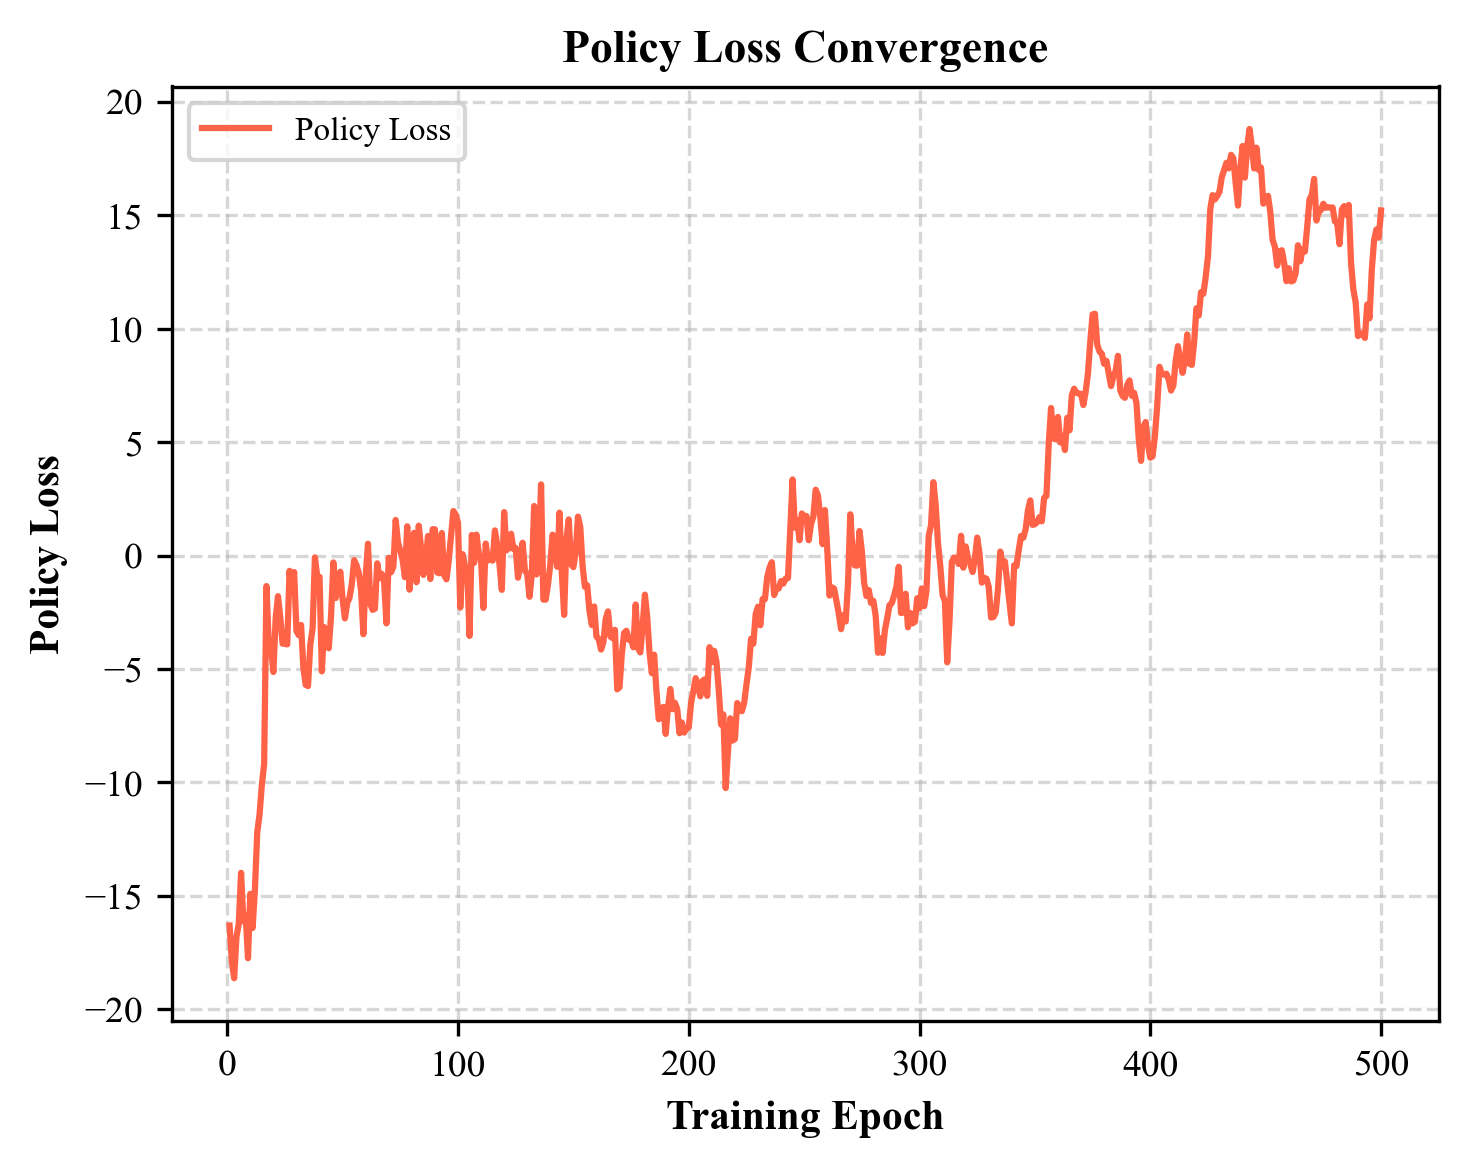
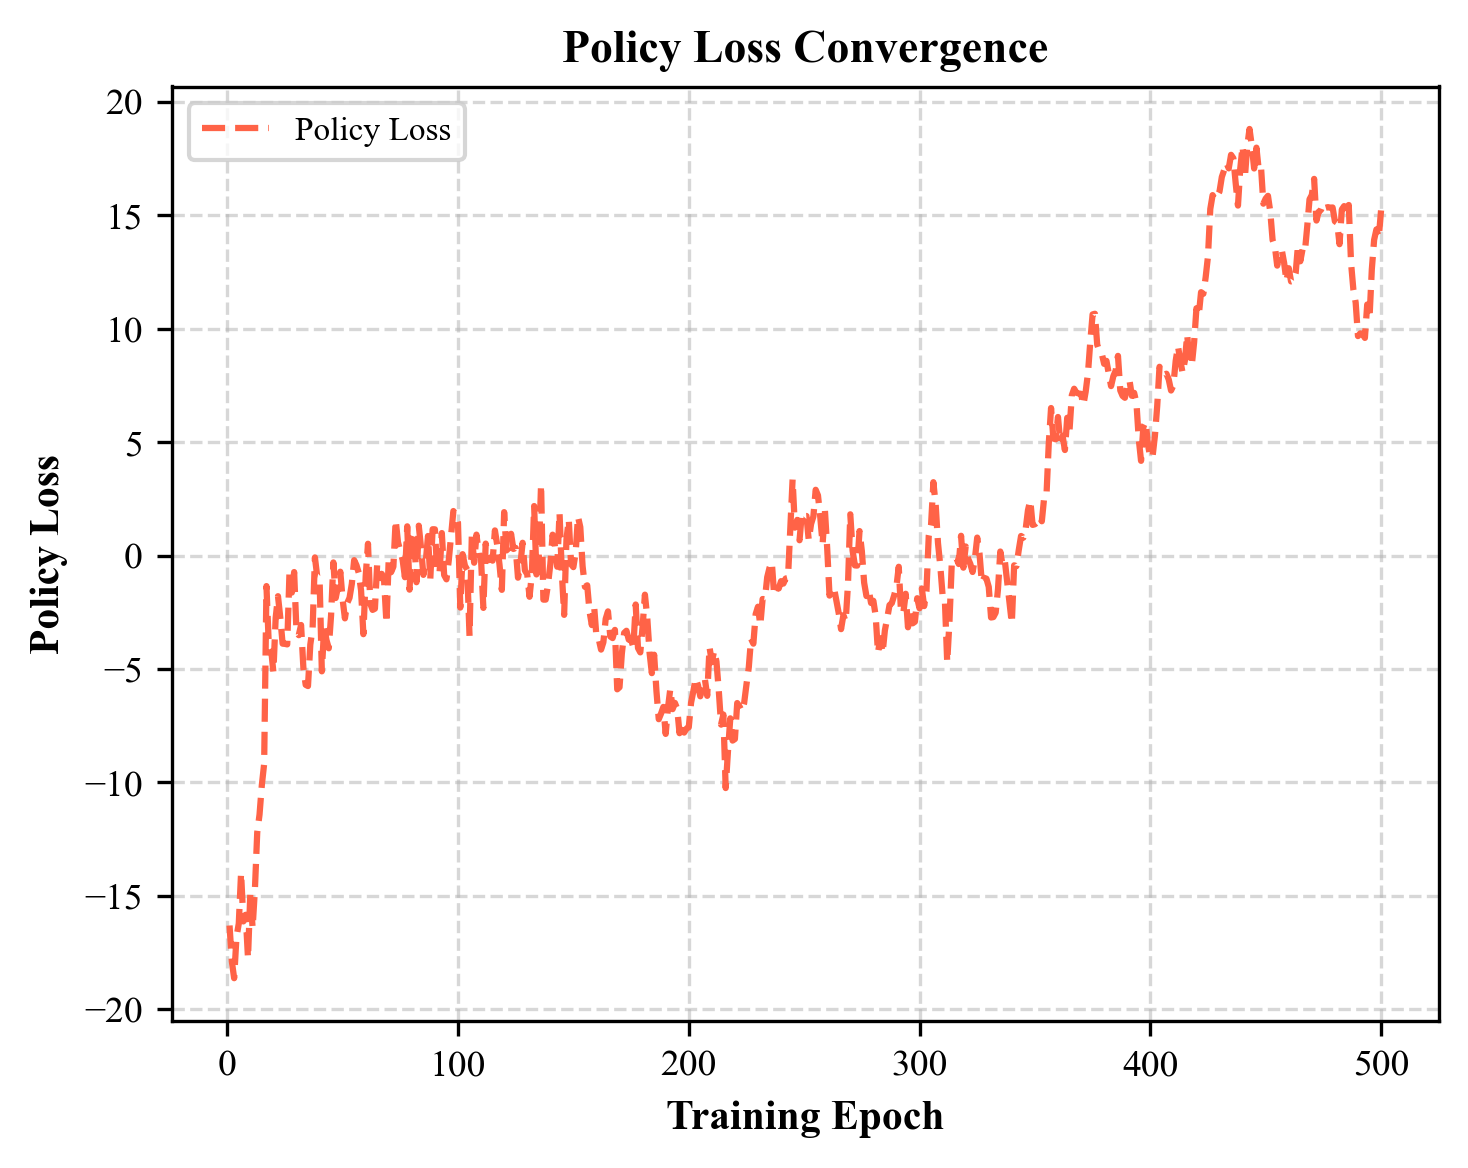
Update IEEE graphs with distinct line styles for loss curves - dashed for policy loss, dash-dot for value loss

diff --git a/generate_ieee_plots.py b/generate_ieee_plots.py
@@ -11,9 +11,9 @@ plt.rcParams['ytick.labelsize'] = 9
 plt.rcParams['axes.labelsize'] = 10
 plt.rcParams['legend.fontsize'] = 8
 
-def save_ieee_plot(data, x_col, y_col, title, ylabel, filename, color='#1f77b4', target=None, target_color='#d62728'):
+def save_ieee_plot(data, x_col, y_col, title, ylabel, filename, color='#1f77b4', target=None, target_color='#d62728', linestyle='-'):
     plt.figure(figsize=(5, 4))
-    plt.plot(data[x_col], data[y_col], color=color, linewidth=1.5, label=ylabel)
+    plt.plot(data[x_col], data[y_col], color=color, linewidth=1.5, label=ylabel, linestyle=linestyle)
     
     if target is not None:
         plt.axhline(y=target, color=target_color, linestyle='--', linewidth=1.5, label=f'Target ({target})')
@@ -58,13 +58,15 @@ save_ieee_plot(df_clean, 'epoch', 'total_policy_loss',
               'Policy Loss Convergence', 
               'Policy Loss', 
               'fig_ploss.png',
-              color='#FF6347')
+              color='#FF6347',
+              linestyle='--')
 
 save_ieee_plot(df_clean, 'epoch', 'total_value_loss', 
               'Value Loss Convergence', 
               'Value Loss', 
               'fig_vloss.png',
-              color='#9370DB')
+              color='#9370DB',
+              linestyle='-.')
 
 fig, axes = plt.subplots(2, 2, figsize=(10, 8))
 
